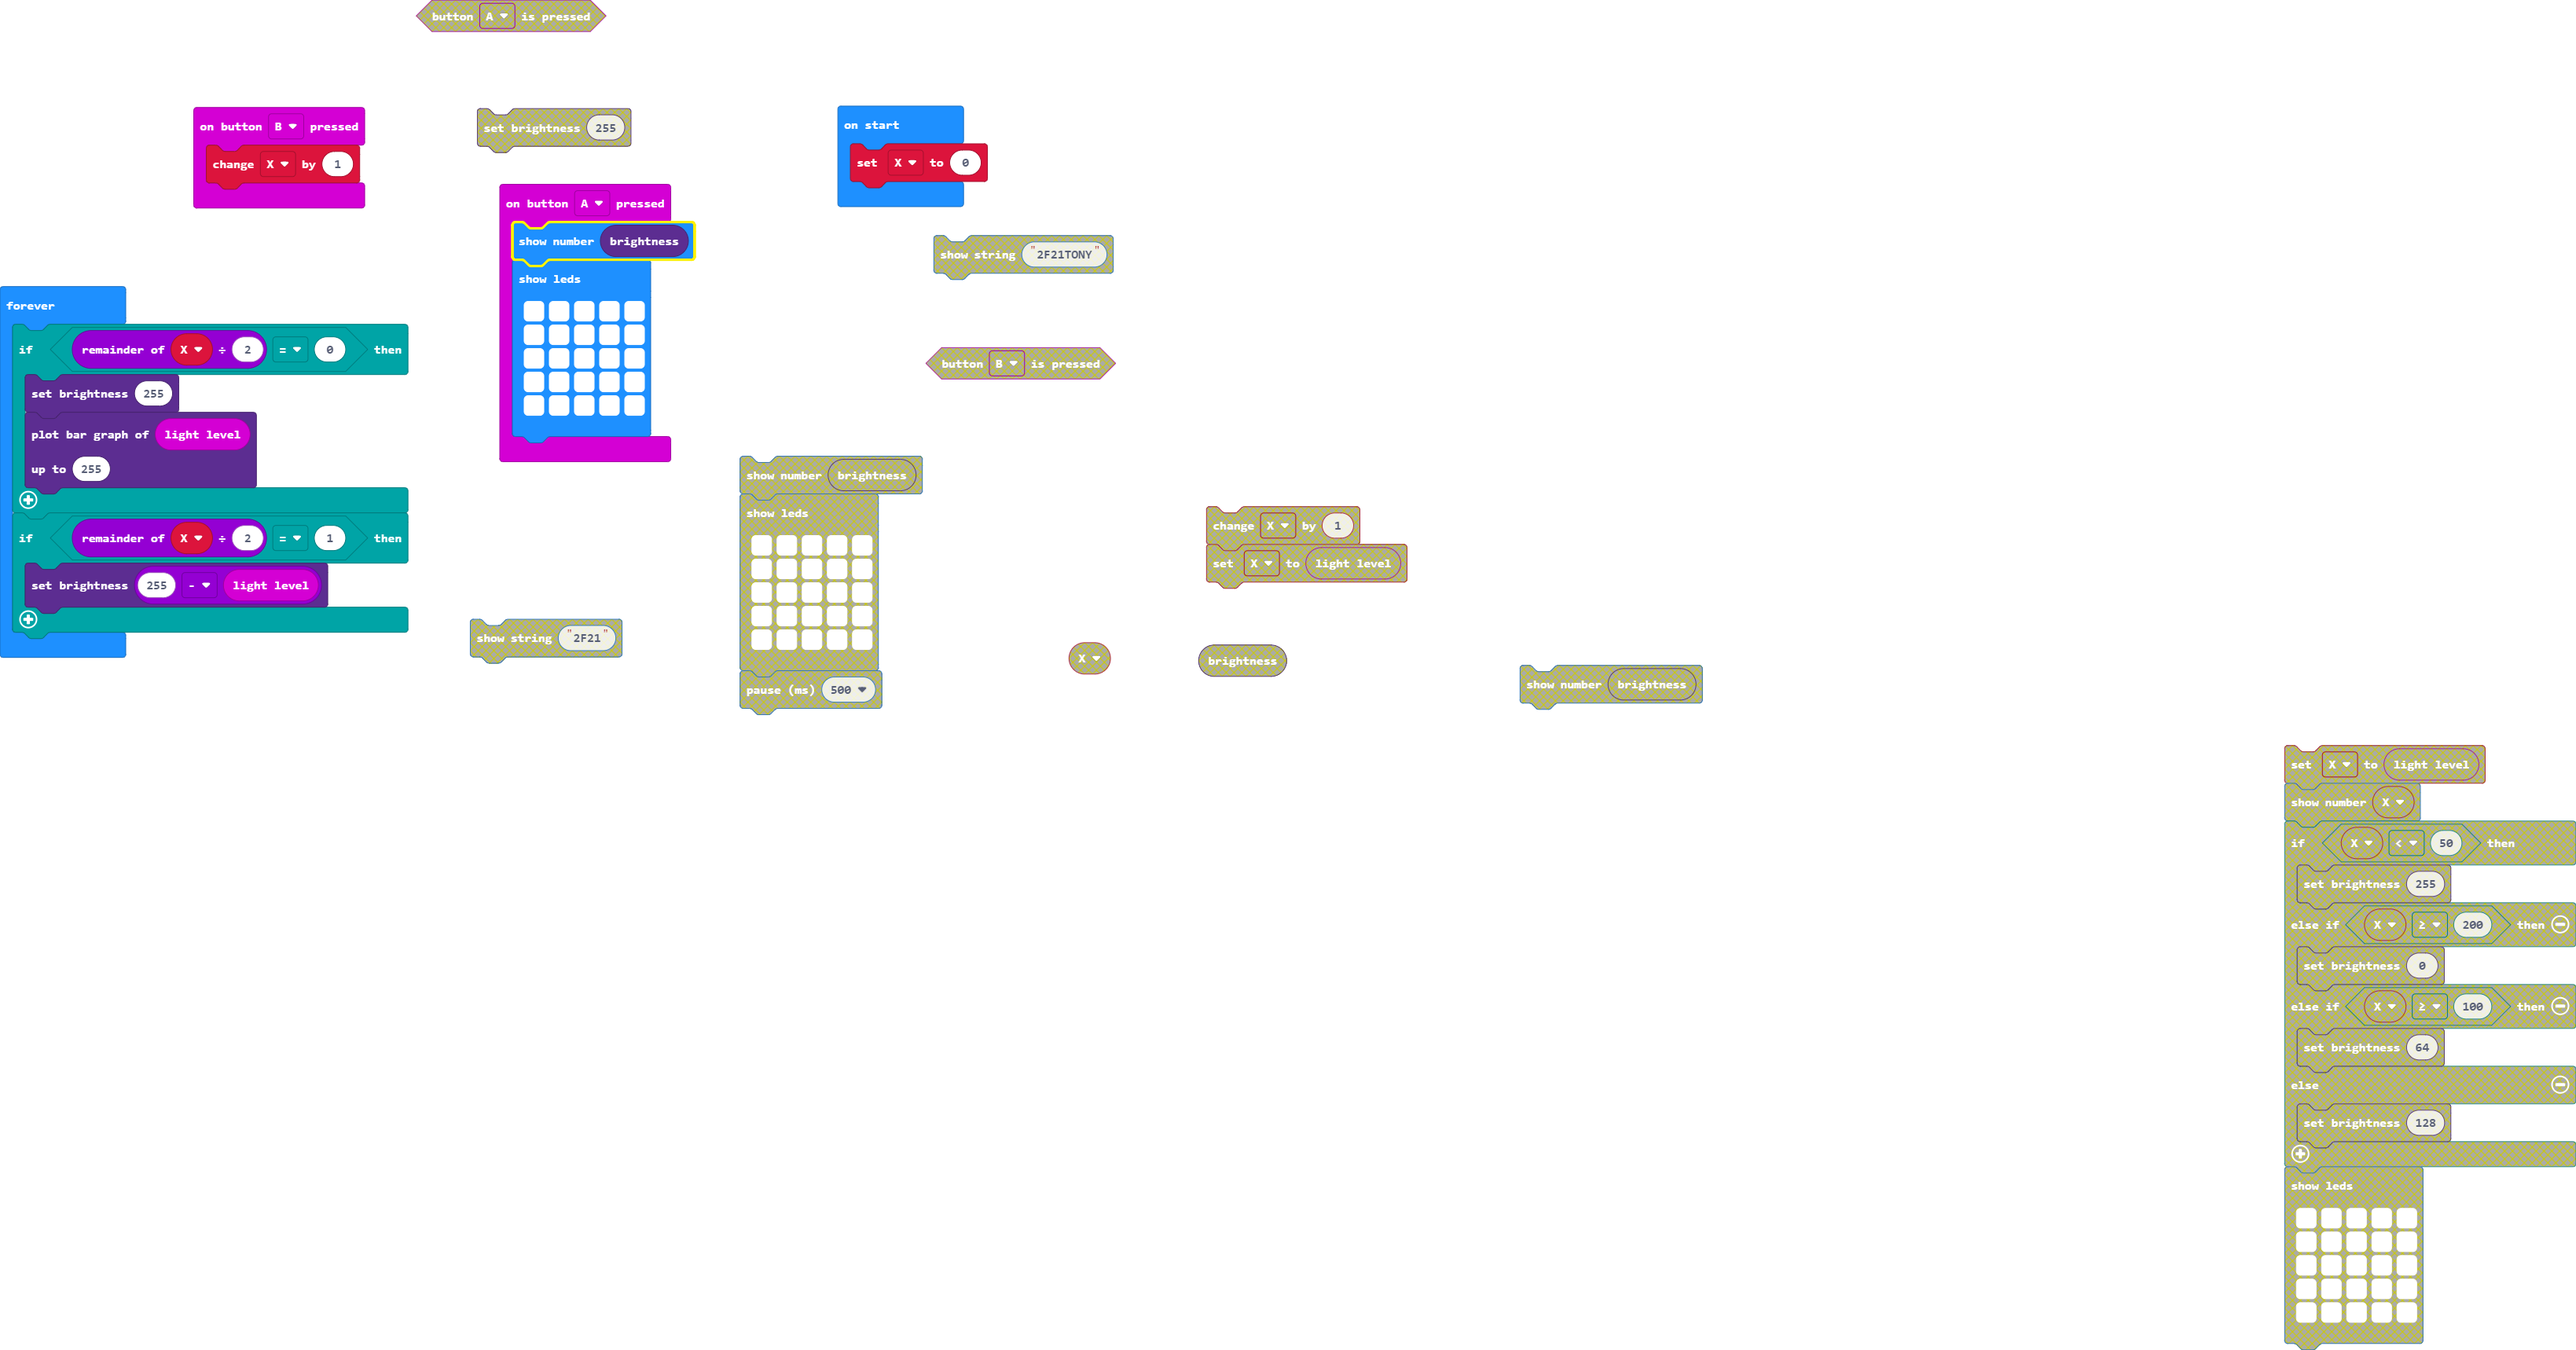
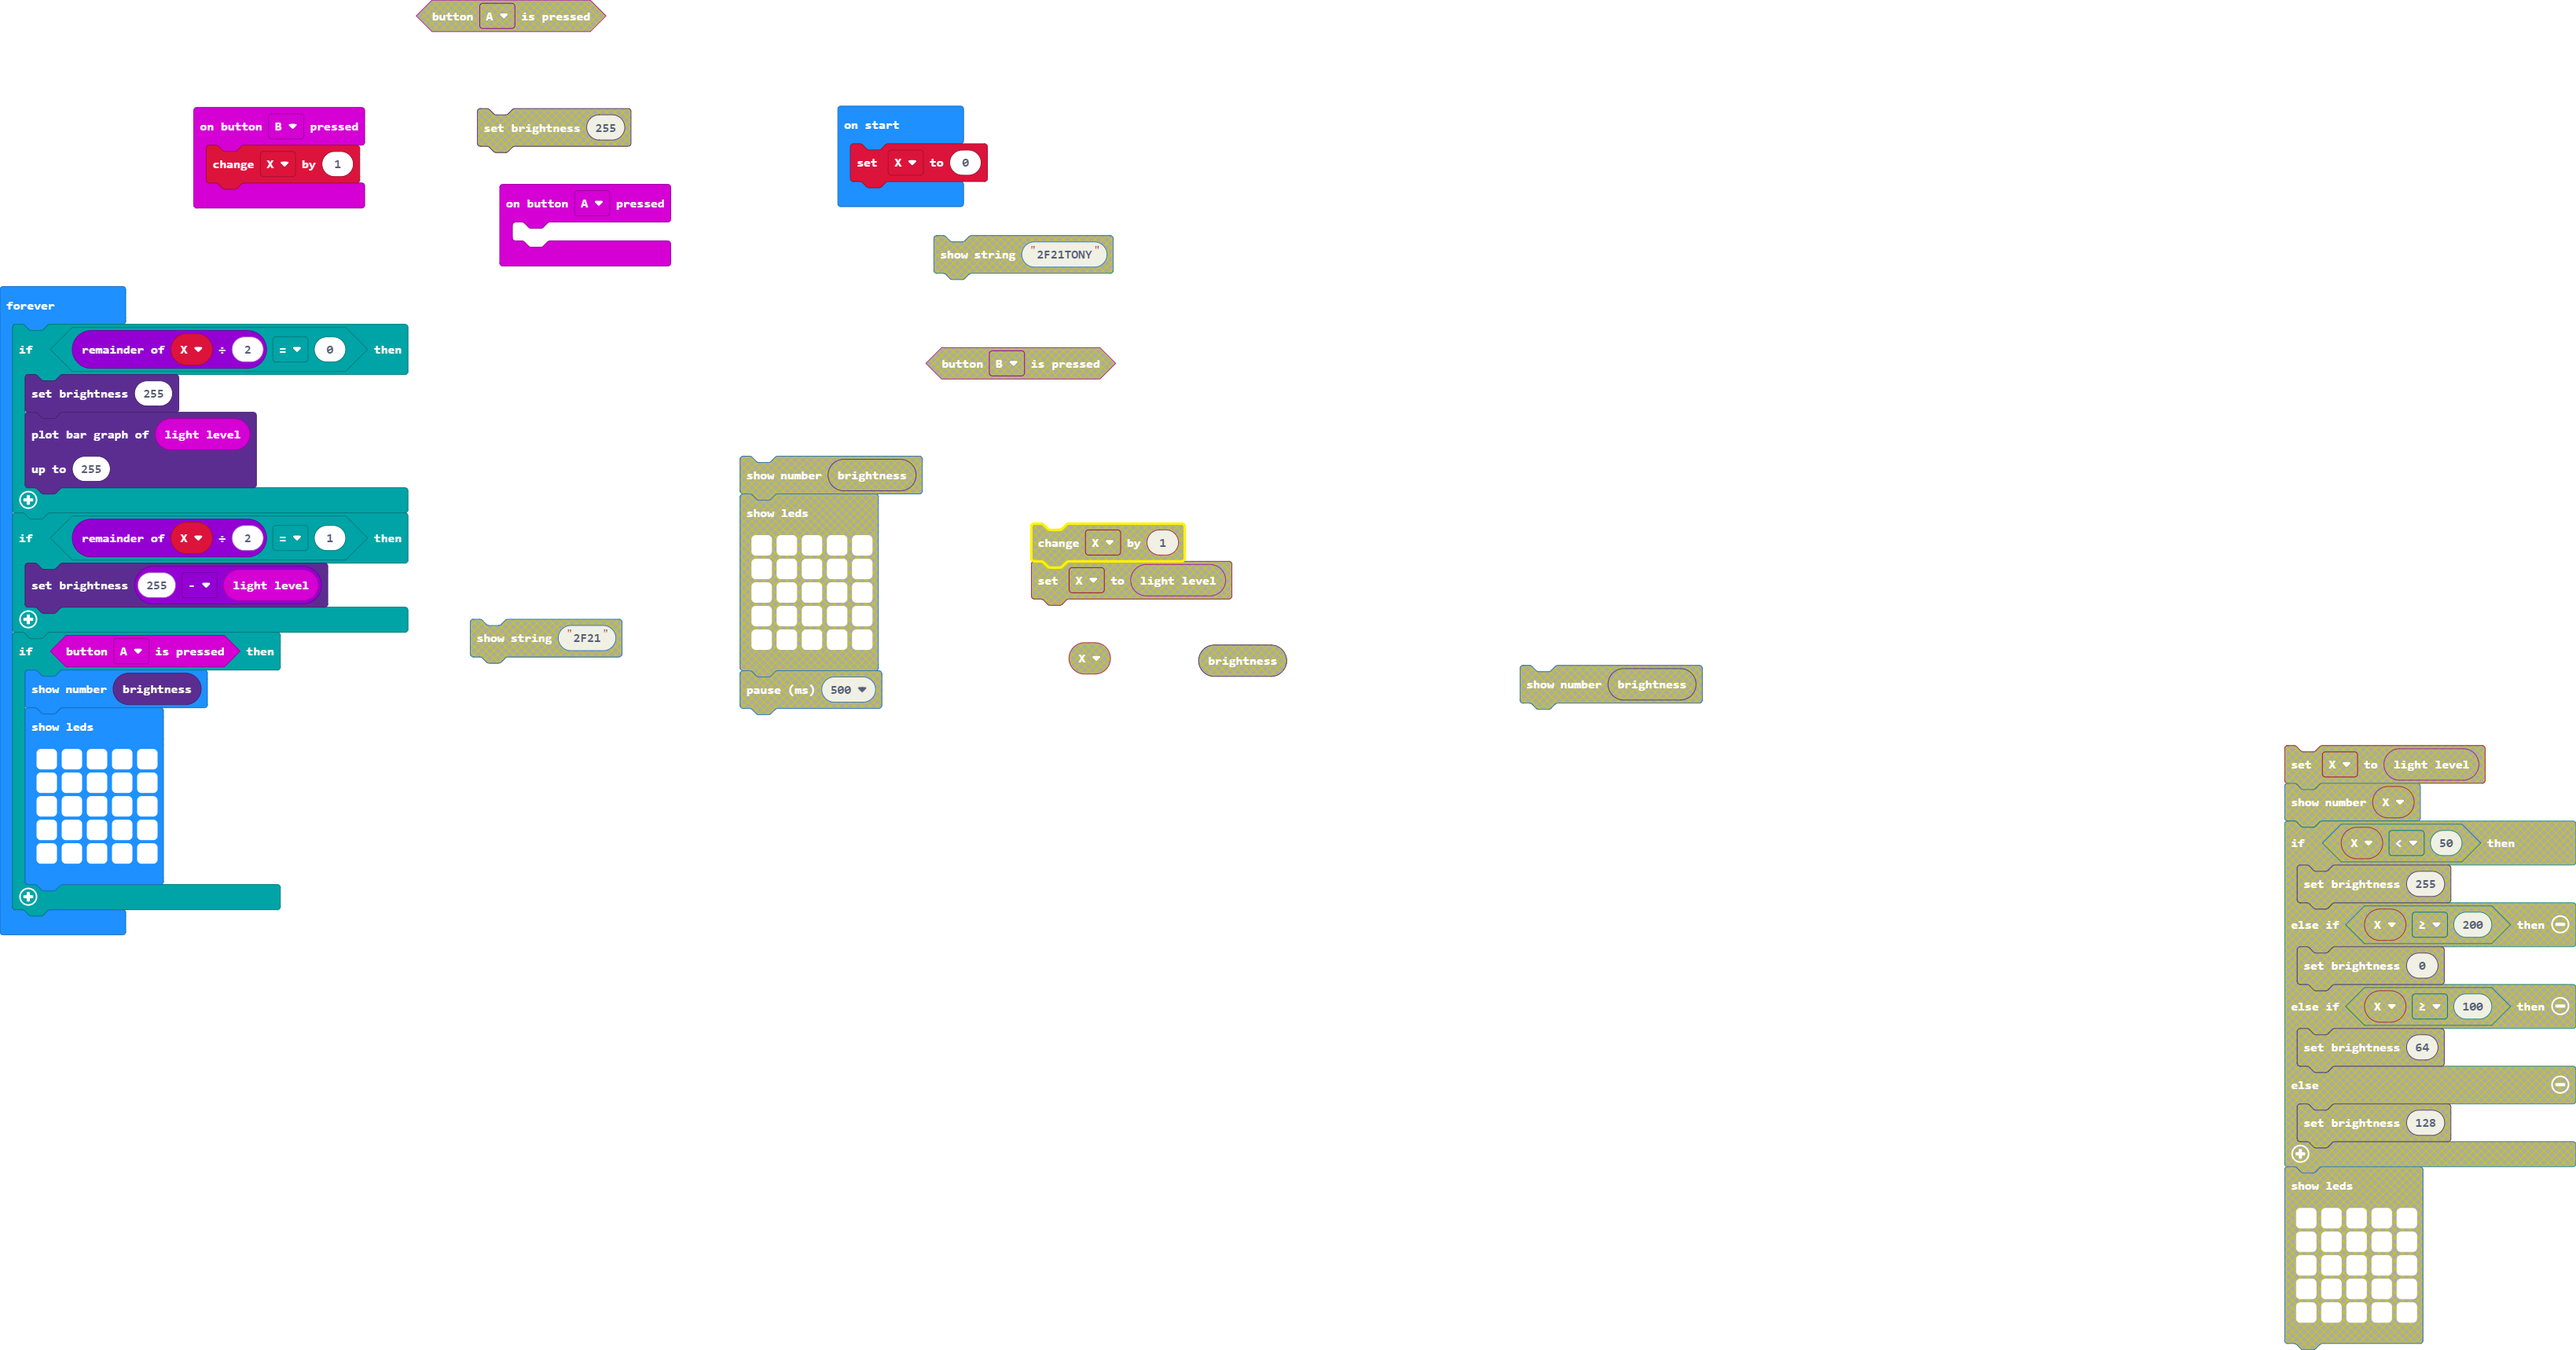
Update main.blocks, main.ts

Changed region(s): [[0.0, 0.4627, 0.1245, 0.7095], [0.1867, 0.1542, 0.28, 0.3393], [0.3734, 0.3702, 0.5601, 0.4627]]

diff --git a/main.ts b/main.ts
@@ -1,12 +1,5 @@
 input.onButtonPressed(Button.A, function () {
-    basic.showNumber(led.brightness())
-    basic.showLeds(`
-        # # # # #
-        # # # # #
-        # # # # #
-        # # # # #
-        # # # # #
-        `)
+	
 })
 input.onButtonPressed(Button.B, function () {
     X += 1
@@ -22,5 +15,15 @@ basic.forever(function () {
     }
     if (X % 2 == 1) {
         led.setBrightness(255 - input.lightLevel())
+    }
+    if (input.buttonIsPressed(Button.A)) {
+        basic.showNumber(led.brightness())
+        basic.showLeds(`
+            # # # # #
+            # # # # #
+            # # # # #
+            # # # # #
+            # # # # #
+            `)
     }
 })
